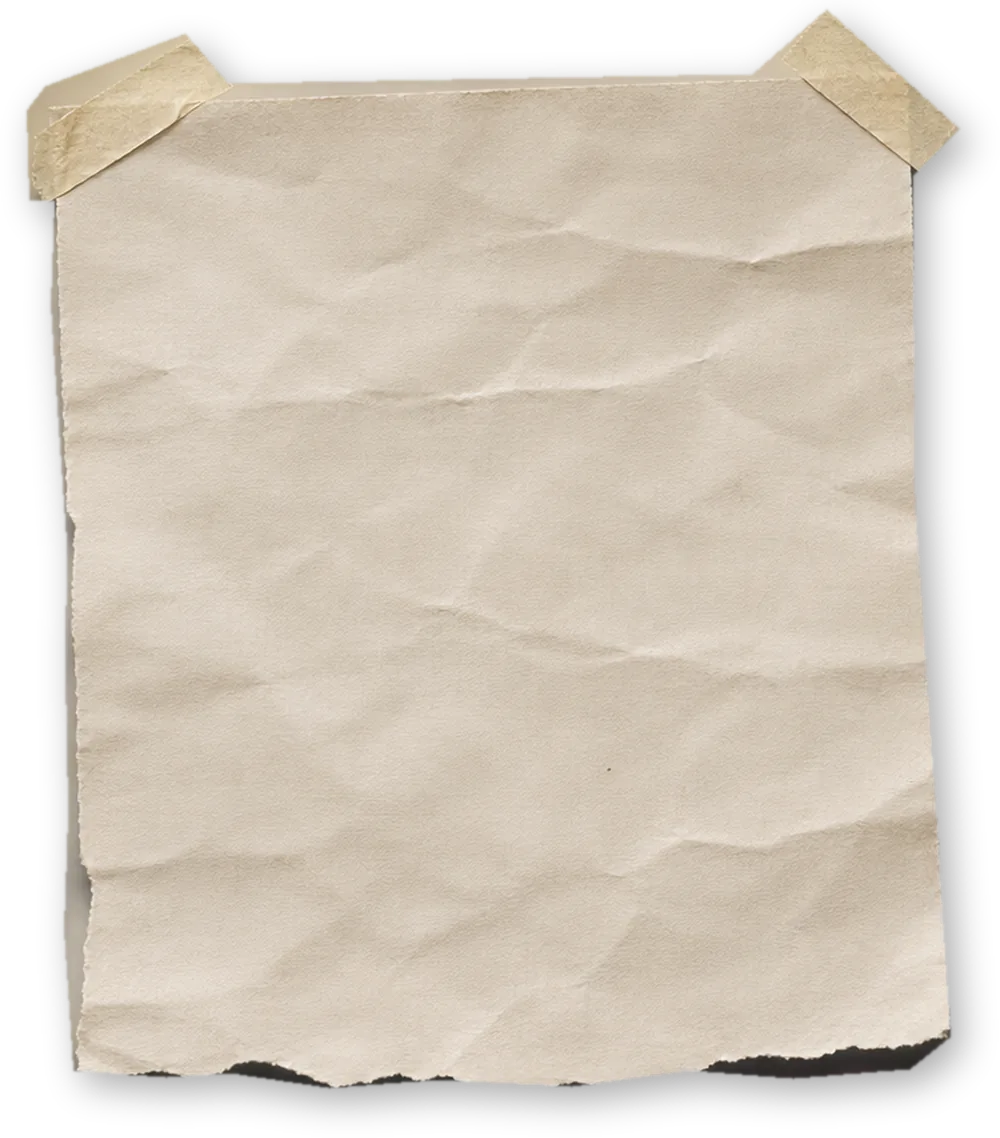
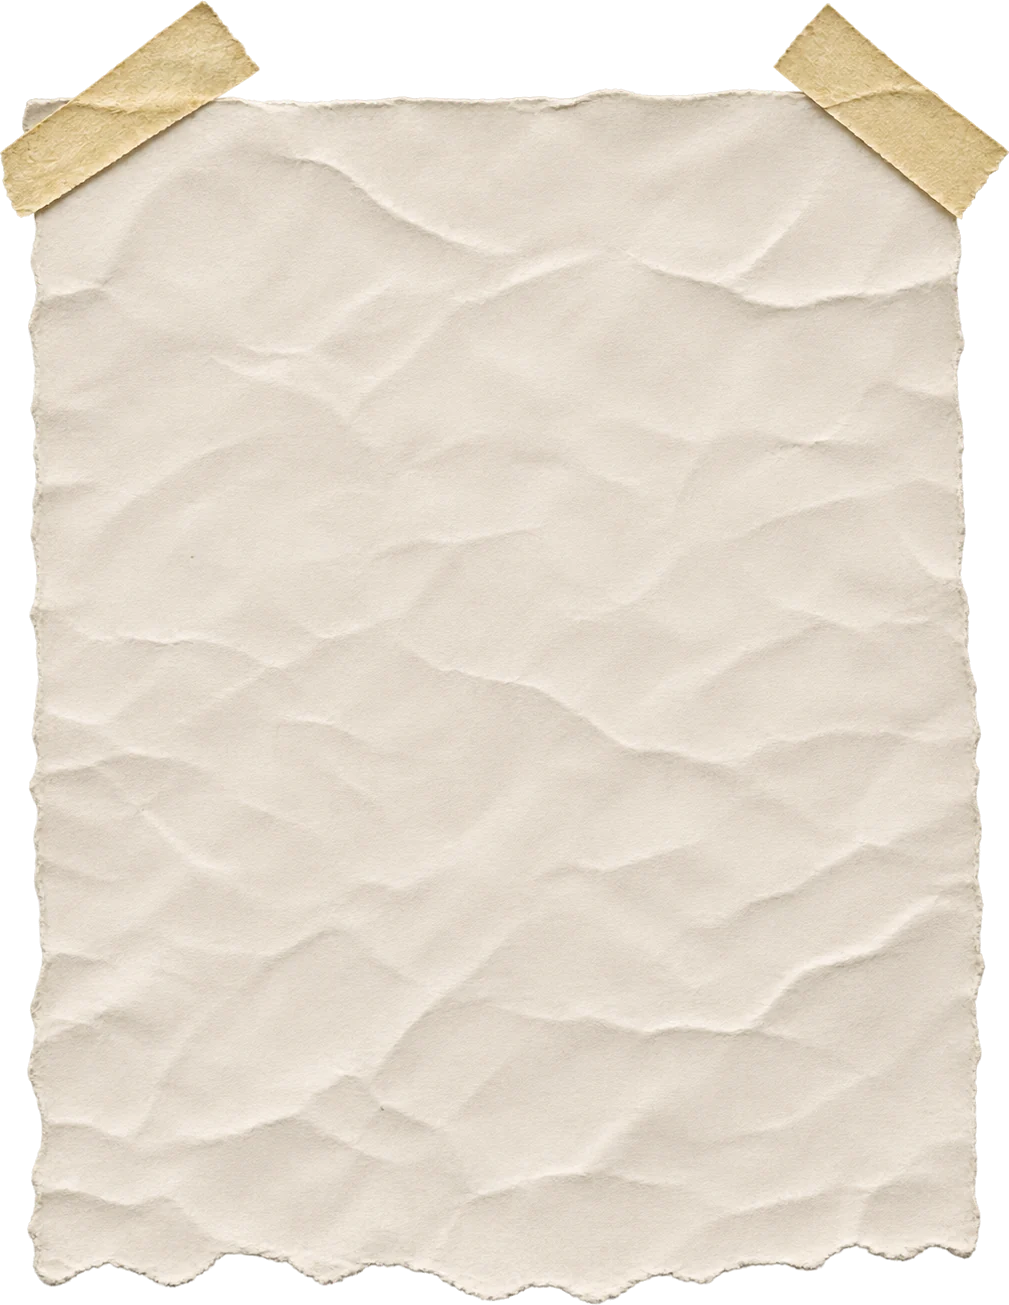
Hero: rebuild scene to match reference

diff --git a/index.html b/index.html
@@ -25,7 +25,7 @@
   <!-- Pinterest: after claiming your site, paste your verification tag here -->
   <!-- <meta name="p:domain_verify" content="YOUR_CODE" /> -->
 
-  <link rel="preload" as="image" href="/hero/mat.webp" media="(min-width: 881px)" />
+  <link rel="preload" as="image" href="/hero/mat.webp" media="(min-width: 1001px)" />
   <link rel="preload" as="image" href="/hero/paper.webp" />
   <link rel="preconnect" href="https://fonts.googleapis.com" />
   <link rel="preconnect" href="https://fonts.gstatic.com" crossorigin />
@@ -118,85 +118,81 @@
     .nav a.link:hover { text-decoration: underline; text-decoration-thickness: 2px; }
     @media (max-width: 720px) { .nav a.link { display: none; } }
 
-    /* Hero: photo of a green cutting mat with real desk objects (images in /hero/) */
+    /* Hero: top-down cutting mat scene. Objects are cut-out photos in /hero/;
+       all shadows are added here so they share one light source (top left). */
     .hero {
       position: relative; overflow: hidden;
-      background: #2c6e52 url("/hero/mat.webp") left top / cover no-repeat;
+      background: #2c6e52 url("/hero/mat.webp") center / cover no-repeat;
       border-bottom: 3px solid var(--ink);
     }
-    @media (max-width: 880px) { .hero { background-image: url("/hero/mat-small.webp"); background-size: auto 100%; } }
-    .leaf-shadow { position: absolute; inset: 0; width: 100%; height: 100%; pointer-events: none; z-index: 1; opacity: .3; mix-blend-mode: multiply; }
+    .scene { position: relative; width: 100%; aspect-ratio: 1672 / 941; margin: 0 auto; container-type: inline-size; }
+    .leaf-shadow { position: absolute; inset: 0; width: 100%; height: 100%; pointer-events: none; z-index: 8; opacity: .30; mix-blend-mode: multiply; }
 
-    .hero .wrap { position: relative; z-index: 2; display: grid; grid-template-columns: 1.08fr .92fr; gap: 36px; align-items: center; padding-top: 56px; padding-bottom: 56px; }
+    .it { position: absolute; }
+    .it img { display: block; width: 100%; height: auto; user-select: none; -webkit-user-drag: none; }
+    .lift-print { filter: drop-shadow(1px 2px 1.5px rgba(0,0,0,.35)) drop-shadow(6px 12px 12px rgba(0,0,0,.28)); }
+    .lift-low   { filter: drop-shadow(2px 3px 2px rgba(0,0,0,.42)) drop-shadow(5px 9px 9px rgba(0,0,0,.2)); }
+    .lift-flat  { filter: drop-shadow(1px 2px 1.5px rgba(0,0,0,.4)); }
+    .lift-high  { filter: drop-shadow(3px 6px 4px rgba(0,0,0,.45)) drop-shadow(10px 20px 18px rgba(0,0,0,.3)); }
 
-    /* Torn paper note (9-slice so the tape and torn edge never stretch) */
-    .note {
-      position: relative;
+    /* Positions match the reference layout (percent of the scene) */
+    .i-coffee  { left: 51.6%; top: 11.6%; width: 18.6%; z-index: 3; }
+    .i-sunsets { left: 66.2%; top: 7.4%;  width: 17.6%; z-index: 4; } .i-sunsets img { transform: rotate(4deg); }
+    .i-friends { left: 73.2%; top: 38.6%; width: 17.6%; z-index: 3; } .i-friends img { transform: rotate(4deg); }
+    .i-clip-s  { left: 86.2%; top: 19.3%; width: 3.3%;  z-index: 2; }
+    .i-clip-p  { left: 68.9%; top: 56.5%; width: 3%;    z-index: 4; } .i-clip-p img { transform: rotate(-40deg); }
+    .i-label   { left: 54.2%; top: 60.1%; width: 12.6%; z-index: 4; } .i-label img { transform: rotate(-4deg); }
+    .i-pencil  { left: 47.6%; top: 62.6%; width: 21.5%; z-index: 6; } .i-pencil img { transform: rotate(11deg); }
+    .i-eraser  { left: 66.3%; top: 73.5%; width: 6.5%;  z-index: 5; } .i-eraser img { transform: rotate(60deg); }
+    .i-ruler   { left: 58.3%; top: 81.5%; width: 40%;   z-index: 2; } .i-ruler img { transform: rotate(-14deg); }
+    .i-camera  { left: -1.8%; top: 82%;   width: 15.5%; z-index: 6; } .i-camera img { transform: rotate(22deg); }
+
+    /* Torn paper note: 9-slice so the tape and torn edges keep their shape */
+    .paper {
+      position: absolute; left: 7.5%; top: 7.2%; width: 44.9%; height: 79.4%; z-index: 2;
       border-style: solid; border-color: transparent;
-      border-width: 92px 48px 64px;
-      border-image: url("/hero/paper.webp") 15% 9% 10% fill / 92px 48px 64px stretch;
-      padding: 0 6px;
-      transform: rotate(-1.5deg);
-      filter: drop-shadow(4px 12px 14px rgba(0,0,0,.35));
+      border-width: 6.25cqw 7.6cqw 3.6cqw;
+      border-image: url("/hero/paper.webp") 14% 22% 8% fill / 6.25cqw 7.6cqw 3.6cqw stretch;
+      filter: drop-shadow(1px 2px 1.5px rgba(0,0,0,.3)) drop-shadow(6px 12px 14px rgba(0,0,0,.28));
     }
-    .tag {
-      display: inline-block; margin: 0 0 14px -6px;
-      font-family: "VT323", monospace; font-size: 19px; letter-spacing: .06em; color: var(--ink);
-      border-style: solid; border-color: transparent; border-width: 8px 10px;
-      border-image: url("/hero/label-yellow.webp") 22% fill / 8px 10px stretch;
-      padding: 0 6px; transform: rotate(-2deg);
-    }
+    .paper-lines { position: absolute; left: -4.4cqw; right: -5.6cqw; top: -1.2cqw; bottom: -1cqw; pointer-events: none;
+      background:
+        linear-gradient(90deg, transparent 2.6cqw, rgba(220,38,38,.35) 2.6cqw, rgba(220,38,38,.35) calc(2.6cqw + 1px), transparent calc(2.6cqw + 1px)),
+        repeating-linear-gradient(transparent 0 2.05cqw, rgba(30,64,175,.08) 2.05cqw calc(2.05cqw + 1px));
+      mix-blend-mode: multiply; }
+    .paper-text { position: absolute; left: -1.2cqw; right: -2.6cqw; top: 2.1cqw; }
     .hero h1 {
-      margin: 0 0 16px; color: var(--ink);
+      margin: 0 0 2.2cqw; color: var(--ink);
       font-family: "Rubik Mono One", sans-serif; font-weight: 400;
-      font-size: clamp(26px, 3.4vw, 40px); line-height: 1.14; letter-spacing: -.01em;
+      font-size: 2.62cqw; line-height: 1.2; letter-spacing: -.01em;
     }
-    .hero h1 em { font-style: normal; background: linear-gradient(transparent 50%, var(--yellow) 50%, var(--yellow) 92%, transparent 92%); padding: 0 .08em; -webkit-box-decoration-break: clone; box-decoration-break: clone; }
-    .hero p.lead { color: #2b2f36; font-size: clamp(16px, 1.6vw, 18px); max-width: 32em; margin: 0 0 24px; }
-    .hero-cta { display: flex; flex-wrap: wrap; align-items: center; gap: 16px; }
-    .trust { display: flex; flex-wrap: wrap; gap: 4px 18px; margin: 18px 0 0; padding: 0; list-style: none; color: #1f2937; font-size: 15px; font-weight: 500; }
-    .trust li::before { content: "✓ "; color: var(--pink); font-weight: 700; }
+    .hero h1 em { font-style: normal; background: linear-gradient(transparent 48%, var(--yellow) 48%, var(--yellow) 94%, transparent 94%); padding: 0 .08em; -webkit-box-decoration-break: clone; box-decoration-break: clone; }
+    .hero p.lead { color: #1f2328; font-size: 1.48cqw; line-height: 1.4; margin: 0 0 2.6cqw; max-width: 33cqw; }
+    .hero .btn { font-size: 1.45cqw; min-height: 0; padding: 1.5cqw 2.6cqw; border-width: .2cqw; box-shadow: .35cqw .35cqw 0 var(--ink); }
 
-    /* Desk: prints and objects, all photographed */
-    .desk { position: relative; height: 560px; }
-    .desk img { position: absolute; display: block; height: auto; max-width: none; user-select: none; -webkit-user-drag: none; }
-    .d-coffee  { width: 228px; left: 0;    top: 40px;  transform: rotate(-4deg); z-index: 3; }
-    .d-sunsets { width: 224px; left: 44%;  top: 0;     transform: rotate(3deg);  z-index: 4; }
-    .d-friends { width: 244px; right: 0;   top: 250px; transform: rotate(-2deg); z-index: 3; }
-    .d-pencil  { width: 180px; left: 18%;  bottom: -40px; z-index: 6; }
-    .d-eraser  { width: 82px;  left: 40%;  bottom: 4px; transform: rotate(-10deg); z-index: 4; }
-    .d-ruler   { width: 470px; right: -150px; bottom: -18px; transform: rotate(-9deg); z-index: 5; }
-    .d-clip-s  { width: 40px;  right: 4%;  top: 60px;  transform: rotate(12deg); z-index: 2; }
-    .d-clip-p  { width: 42px;  left: 33%;  top: 0; transform: rotate(28deg); z-index: 2; }
-    .sticker-label {
-      position: absolute; z-index: 6; left: 0; top: 340px; width: 168px; height: 92px;
-      display: grid; place-items: center; transform: rotate(-8deg);
-      background: url("/hero/label-pink.webp") center / 100% 100% no-repeat;
-      font-family: "VT323", monospace; font-size: 26px; letter-spacing: .05em; color: #fff;
-      text-shadow: 1px 1px 0 rgba(0,0,0,.35);
-    }
-
-    @media (max-width: 1100px) {
-      .d-ruler { right: -230px; }
-    }
-    @media (max-width: 880px) {
-      .hero .wrap { grid-template-columns: 1fr; padding-top: 44px; padding-bottom: 24px; gap: 24px; }
-      .note { transform: rotate(-.8deg); border-width: 64px 30px 46px; border-image-width: 64px 30px 46px; padding: 0 2px; }
-      .desk { height: 470px; max-width: 440px; width: 100%; margin: 0 auto; }
-      .d-coffee  { width: 170px; top: 30px; }
-      .d-sunsets { width: 168px; left: auto; right: 0; }
-      .d-friends { width: 182px; right: 4%; top: 210px; }
-      .d-pencil  { width: 140px; left: 26%; bottom: -30px; }
-      .d-eraser  { width: 66px; left: 58%; bottom: 0; }
-      .desk .d-ruler, .desk .d-clip-s { display: none; }
-      .d-clip-p  { width: 34px; left: 44%; top: 4px; }
-      .sticker-label { width: 140px; height: 76px; font-size: 21px; top: 250px; left: 0; }
-      .hero-cta .btn { width: 100%; }
-    }
-    @media (max-width: 380px) {
-      .desk { height: 430px; }
-      .d-coffee { width: 150px; } .d-sunsets { width: 150px; } .d-friends { width: 165px; top: 190px; }
-      .sticker-label { top: 225px; }
+    /* Phones and small tablets: paper on top, desk objects below */
+    @media (max-width: 1000px) {
+      .hero { background-image: url("/hero/mat-small.webp"); background-size: auto 100%; background-position: left top; }
+      .scene { aspect-ratio: auto; container-type: normal; padding: 40px 16px 0; }
+      .paper {
+        position: relative; left: auto; top: auto; width: 100%; max-width: 560px; height: auto; margin: 0 auto;
+        border-width: 54px 40px 34px; border-image-width: 54px 40px 34px;
+      }
+      .paper-lines { display: none; }
+      .paper-text { position: static; padding: 4px 0 6px; }
+      .hero h1 { font-size: clamp(22px, 6.4vw, 34px); margin-bottom: 14px; }
+      .hero p.lead { font-size: 16px; max-width: none; margin-bottom: 20px; }
+      .hero .btn { font-size: 15px; padding: 14px 20px; border-width: 3px; box-shadow: var(--shadow); width: 100%; }
+      .desk { position: relative; width: 100%; max-width: 480px; aspect-ratio: 1 / 1.08; margin: 18px auto 0; }
+      .i-coffee  { left: 2%;  top: 6%;  width: 41%; }
+      .i-sunsets { left: 50%; top: 2%;  width: 38%; }
+      .i-friends { left: 52%; top: 45%; width: 40%; }
+      .i-clip-s  { left: 90%; top: 10%; width: 7%; }
+      .i-clip-p  { left: 38%; top: 58%; width: 6.5%; }
+      .i-label   { left: 2%;  top: 58%; width: 34%; }
+      .i-pencil  { left: 6%;  top: 66%; width: 46%; }
+      .i-eraser  { left: 38%; top: 86%; width: 13%; }
+      .desk .i-ruler, .desk .i-camera { display: none; }
     }
 
     /* Sections */
@@ -282,45 +278,41 @@
 
   <main>
     <div class="hero">
-      <svg class="leaf-shadow" aria-hidden="true" preserveAspectRatio="xMidYMid slice" viewBox="0 0 1200 700">
-        <defs><filter id="leafblur" x="-20%" y="-20%" width="140%" height="140%"><feGaussianBlur stdDeviation="16"/></filter></defs>
-        <g fill="#000" filter="url(#leafblur)">
-          <ellipse cx="980" cy="70" rx="130" ry="34" transform="rotate(-35 980 70)"/>
-          <ellipse cx="1100" cy="180" rx="120" ry="30" transform="rotate(20 1100 180)"/>
-          <ellipse cx="1160" cy="360" rx="130" ry="32" transform="rotate(-20 1160 360)"/>
-          <ellipse cx="40" cy="80" rx="140" ry="36" transform="rotate(40 40 80)"/>
-          <ellipse cx="60" cy="640" rx="140" ry="34" transform="rotate(30 60 640)"/>
-          <ellipse cx="200" cy="700" rx="110" ry="28" transform="rotate(-25 200 700)"/>
-          <path d="M780 -20 C900 150 1040 250 1220 290" stroke="#000" stroke-width="14" fill="none"/>
-        </g>
-      </svg>
-
-      <div class="wrap">
-        <div class="note">
-          <span class="tag">FREE • NO SIGN-UP • 90s VIBES</span>
-          <h1>Turn any photo into a <em>retro instant print</em></h1>
-          <p class="lead">Add vintage film filters, a paper frame and a handwritten caption, then download your print in HD. It takes about 30 seconds and works right in your browser.</p>
-          <div class="hero-cta">
+      <div class="scene">
+        <div class="paper">
+          <div class="paper-lines" aria-hidden="true"></div>
+          <div class="paper-text">
+            <h1>Turn any photo into a <em>retro instant print</em></h1>
+            <p class="lead">Add vintage film filters, a paper frame and a handwritten caption, then download your print in HD. It takes about 30 seconds and works right in your browser.</p>
             <a class="btn btn--pink" href="/editor/">Make your print →</a>
           </div>
-          <ul class="trust">
-            <li>100% free</li>
-            <li>Photos never leave your device</li>
-            <li>Works on phone &amp; desktop</li>
-          </ul>
         </div>
 
         <div class="desk" aria-hidden="true">
-          <img class="d-coffee"  src="/hero/coffee.webp"  width="341" height="447" alt="" fetchpriority="high">
-          <img class="d-sunsets" src="/hero/sunsets.webp" width="328" height="412" alt="" fetchpriority="high">
-          <img class="d-friends" src="/hero/friends.webp" width="360" height="395" alt="">
-          <img class="d-clip-s"  src="/hero/clip-silver.webp" width="102" height="142" alt="">
-          <img class="d-clip-p"  src="/hero/clip-pink.webp" width="127" height="161" alt="">
-          <div class="sticker-label">HD DOWNLOAD!</div>
-          <img class="d-pencil"  src="/hero/pencil.webp" width="335" height="410" alt="">
-          <img class="d-eraser"  src="/hero/eraser.webp" width="198" height="185" alt="">
-          <img class="d-ruler"   src="/hero/ruler.webp" width="746" height="146" alt="">
+          <div class="it lift-print i-coffee"><img src="/hero/coffee.webp" width="660" height="911" alt="" fetchpriority="high"></div>
+          <div class="it lift-print i-sunsets"><img src="/hero/sunsets.webp" width="640" height="852" alt="" fetchpriority="high"></div>
+          <div class="it lift-print i-friends"><img src="/hero/friends.webp" width="660" height="834" alt=""></div>
+          <div class="it lift-flat i-clip-s"><img src="/hero/clip-silver.webp" width="130" height="177" alt=""></div>
+          <div class="it lift-flat i-clip-p"><img src="/hero/clip-pink.webp" width="150" height="199" alt=""></div>
+          <div class="it lift-flat i-label"><img src="/hero/hdlabel.webp" width="440" height="162" alt=""></div>
+          <div class="it lift-low i-ruler"><img src="/hero/ruler.webp" width="1400" height="136" alt="" loading="lazy"></div>
+          <div class="it lift-low i-eraser"><img src="/hero/eraser.webp" width="240" height="206" alt=""></div>
+          <div class="it lift-low i-pencil"><img src="/hero/pencil.webp" width="900" height="769" alt=""></div>
+          <div class="it lift-high i-camera"><img src="/hero/camera.webp" width="560" height="316" alt="" loading="lazy"></div>
         </div>
+
+        <svg class="leaf-shadow" aria-hidden="true" preserveAspectRatio="xMidYMid slice" viewBox="0 0 1672 941">
+          <defs><filter id="leafblur" x="-20%" y="-20%" width="140%" height="140%"><feGaussianBlur stdDeviation="18"/></filter></defs>
+          <g fill="#000" filter="url(#leafblur)">
+            <ellipse cx="60" cy="60" rx="170" ry="44" transform="rotate(35 60 60)"/>
+            <ellipse cx="210" cy="20" rx="120" ry="30" transform="rotate(-15 210 20)"/>
+            <ellipse cx="1560" cy="60" rx="160" ry="40" transform="rotate(-30 1560 60)"/>
+            <ellipse cx="1630" cy="250" rx="150" ry="36" transform="rotate(25 1630 250)"/>
+            <ellipse cx="1500" cy="420" rx="120" ry="30" transform="rotate(-50 1500 420)"/>
+            <ellipse cx="40" cy="560" rx="150" ry="38" transform="rotate(-35 40 560)"/>
+            <path d="M1180 -30 C1300 120 1460 220 1700 260" stroke="#000" stroke-width="16" fill="none"/>
+          </g>
+        </svg>
       </div>
     </div>
 
